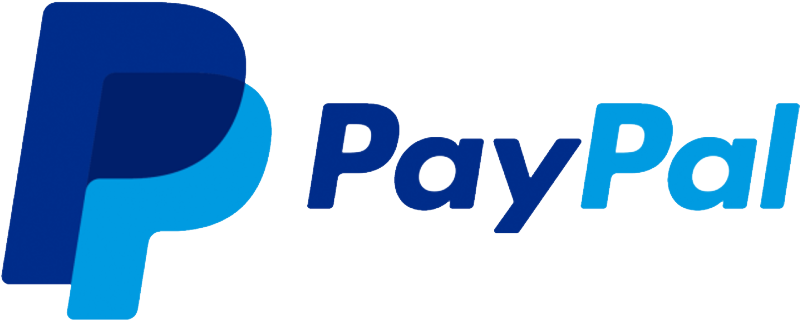
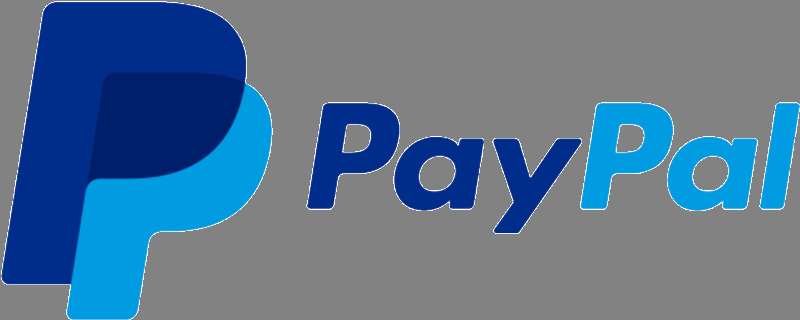
Donate dialog updated

diff --git a/Dialogs/Donate.Designer.cs b/Dialogs/Donate.Designer.cs
@@ -29,8 +29,8 @@
         private void InitializeComponent()
         {
             System.ComponentModel.ComponentResourceManager resources = new System.ComponentModel.ComponentResourceManager(typeof(Donate));
-            this.Button1 = new System.Windows.Forms.Button();
-            this.button2 = new System.Windows.Forms.Button();
+            this.donateButton = new System.Windows.Forms.Button();
+            this.cancelButton = new System.Windows.Forms.Button();
             this.pictureBox1 = new System.Windows.Forms.PictureBox();
             this.pictureBox2 = new System.Windows.Forms.PictureBox();
             this.richTextBox = new System.Windows.Forms.RichTextBox();
@@ -39,33 +39,36 @@
             ((System.ComponentModel.ISupportInitialize)(this.pictureBox2)).BeginInit();
             this.SuspendLayout();
             // 
-            // Button1
+            // donateButton
             // 
-            this.Button1.Location = new System.Drawing.Point(171, 231);
-            this.Button1.Name = "Button1";
-            this.Button1.Size = new System.Drawing.Size(75, 23);
-            this.Button1.TabIndex = 0;
-            this.Button1.Text = "Donate";
-            this.Button1.UseVisualStyleBackColor = true;
-            this.Button1.Click += new System.EventHandler(this.Button1_Click);
+            this.donateButton.Location = new System.Drawing.Point(228, 284);
+            this.donateButton.Margin = new System.Windows.Forms.Padding(4);
+            this.donateButton.Name = "donateButton";
+            this.donateButton.Size = new System.Drawing.Size(100, 28);
+            this.donateButton.TabIndex = 0;
+            this.donateButton.Text = "Donate";
+            this.donateButton.UseVisualStyleBackColor = true;
+            this.donateButton.Click += new System.EventHandler(this.Button1_Click);
             // 
-            // button2
+            // cancelButton
             // 
-            this.button2.Location = new System.Drawing.Point(284, 231);
-            this.button2.Name = "button2";
-            this.button2.Size = new System.Drawing.Size(75, 23);
-            this.button2.TabIndex = 2;
-            this.button2.Text = "Cancel";
-            this.button2.UseVisualStyleBackColor = true;
-            this.button2.Click += new System.EventHandler(this.Button2_Click);
+            this.cancelButton.Location = new System.Drawing.Point(379, 284);
+            this.cancelButton.Margin = new System.Windows.Forms.Padding(4);
+            this.cancelButton.Name = "cancelButton";
+            this.cancelButton.Size = new System.Drawing.Size(100, 28);
+            this.cancelButton.TabIndex = 2;
+            this.cancelButton.Text = "Cancel";
+            this.cancelButton.UseVisualStyleBackColor = true;
+            this.cancelButton.Click += new System.EventHandler(this.Button2_Click);
             // 
             // pictureBox1
             // 
             this.pictureBox1.BackColor = System.Drawing.Color.White;
             this.pictureBox1.Image = global::Bahtinov_Collimator.Properties.Resources.focusImage;
             this.pictureBox1.Location = new System.Drawing.Point(-1, 0);
+            this.pictureBox1.Margin = new System.Windows.Forms.Padding(4);
             this.pictureBox1.Name = "pictureBox1";
-            this.pictureBox1.Size = new System.Drawing.Size(128, 283);
+            this.pictureBox1.Size = new System.Drawing.Size(171, 348);
             this.pictureBox1.SizeMode = System.Windows.Forms.PictureBoxSizeMode.Zoom;
             this.pictureBox1.TabIndex = 3;
             this.pictureBox1.TabStop = false;
@@ -74,9 +77,10 @@
             // 
             this.pictureBox2.BackColor = System.Drawing.Color.White;
             this.pictureBox2.Image = global::Bahtinov_Collimator.Properties.Resources.paypal;
-            this.pictureBox2.Location = new System.Drawing.Point(12, 12);
+            this.pictureBox2.Location = new System.Drawing.Point(16, 19);
+            this.pictureBox2.Margin = new System.Windows.Forms.Padding(4);
             this.pictureBox2.Name = "pictureBox2";
-            this.pictureBox2.Size = new System.Drawing.Size(105, 55);
+            this.pictureBox2.Size = new System.Drawing.Size(135, 54);
             this.pictureBox2.SizeMode = System.Windows.Forms.PictureBoxSizeMode.Zoom;
             this.pictureBox2.TabIndex = 4;
             this.pictureBox2.TabStop = false;
@@ -87,10 +91,11 @@
             this.richTextBox.BorderStyle = System.Windows.Forms.BorderStyle.None;
             this.richTextBox.Cursor = System.Windows.Forms.Cursors.Arrow;
             this.richTextBox.Font = new System.Drawing.Font("Microsoft Sans Serif", 9F, System.Drawing.FontStyle.Regular, System.Drawing.GraphicsUnit.Point, ((byte)(0)));
-            this.richTextBox.Location = new System.Drawing.Point(136, 86);
+            this.richTextBox.Location = new System.Drawing.Point(192, 106);
+            this.richTextBox.Margin = new System.Windows.Forms.Padding(4);
             this.richTextBox.Name = "richTextBox";
             this.richTextBox.ReadOnly = true;
-            this.richTextBox.Size = new System.Drawing.Size(268, 110);
+            this.richTextBox.Size = new System.Drawing.Size(346, 135);
             this.richTextBox.TabIndex = 6;
             this.richTextBox.Text = "";
             // 
@@ -98,25 +103,27 @@
             // 
             this.label1.AutoSize = true;
             this.label1.Font = new System.Drawing.Font("Microsoft Sans Serif", 9F, System.Drawing.FontStyle.Bold, System.Drawing.GraphicsUnit.Point, ((byte)(0)));
-            this.label1.Location = new System.Drawing.Point(142, 27);
+            this.label1.Location = new System.Drawing.Point(189, 33);
+            this.label1.Margin = new System.Windows.Forms.Padding(4, 0, 4, 0);
             this.label1.Name = "label1";
-            this.label1.Size = new System.Drawing.Size(251, 15);
+            this.label1.Size = new System.Drawing.Size(298, 18);
             this.label1.TabIndex = 7;
             this.label1.Text = "This software is free and open source.";
             // 
             // Donate
             // 
-            this.AutoScaleDimensions = new System.Drawing.SizeF(6F, 13F);
+            this.AutoScaleDimensions = new System.Drawing.SizeF(8F, 16F);
             this.AutoScaleMode = System.Windows.Forms.AutoScaleMode.Font;
-            this.ClientSize = new System.Drawing.Size(413, 281);
+            this.ClientSize = new System.Drawing.Size(551, 346);
             this.Controls.Add(this.label1);
             this.Controls.Add(this.richTextBox);
             this.Controls.Add(this.pictureBox2);
             this.Controls.Add(this.pictureBox1);
-            this.Controls.Add(this.button2);
-            this.Controls.Add(this.Button1);
+            this.Controls.Add(this.cancelButton);
+            this.Controls.Add(this.donateButton);
             this.FormBorderStyle = System.Windows.Forms.FormBorderStyle.FixedDialog;
             this.Icon = ((System.Drawing.Icon)(resources.GetObject("$this.Icon")));
+            this.Margin = new System.Windows.Forms.Padding(4);
             this.Name = "Donate";
             this.Text = "Donate";
             ((System.ComponentModel.ISupportInitialize)(this.pictureBox1)).EndInit();
@@ -128,8 +135,8 @@
 
         #endregion
 
-        private System.Windows.Forms.Button Button1;
-        private System.Windows.Forms.Button button2;
+        private System.Windows.Forms.Button donateButton;
+        private System.Windows.Forms.Button cancelButton;
         private System.Windows.Forms.PictureBox pictureBox1;
         private System.Windows.Forms.PictureBox pictureBox2;
         private System.Windows.Forms.RichTextBox richTextBox;

diff --git a/Dialogs/Donate.cs b/Dialogs/Donate.cs
@@ -1,11 +1,21 @@
 using System;
 using System.Diagnostics;
+using System.Runtime.InteropServices;
 using System.Windows.Forms;
+using static System.Windows.Forms.VisualStyles.VisualStyleElement.Button;
+using static System.Windows.Forms.VisualStyles.VisualStyleElement.Window;
 
 namespace Bahtinov_Collimator
 {
     public partial class Donate : Form
     {
+
+        [DllImport("dwmapi.dll", PreserveSig = true)]
+        private static extern int DwmSetWindowAttribute(IntPtr hwnd, int attr, ref int attrValue, int attrSize);
+
+        // Constants
+        private const int DWMWA_USE_IMMERSIVE_DARK_MODE = 19;
+
         #region Constructor
 
         /// <summary>
@@ -15,17 +25,50 @@ namespace Bahtinov_Collimator
         {
             InitializeComponent();
             InitializeRichTextBox();
+            SetColorScheme();
         }
 
         #endregion
 
         #region Methods
 
+        private void SetColorScheme()
+        {
+            // main form
+            this.ForeColor = UITheme.DarkForeground;
+            this.BackColor = UITheme.DarkBackground;
+
+            // OK button
+            donateButton.BackColor = UITheme.ButtonDarkBackground;
+            donateButton.ForeColor = UITheme.ButtonDarkForeground;
+            donateButton.FlatStyle = FlatStyle.Popup;
+
+            // Cancel button
+            cancelButton.BackColor = UITheme.ButtonDarkBackground;
+            cancelButton.ForeColor = UITheme.ButtonDarkForeground;
+            cancelButton.FlatStyle = FlatStyle.Popup;
+
+            // Titlebar
+            var color = UITheme.DarkBackground;
+            int colorValue = color.R | (color.G << 8) | (color.B << 16);
+            DwmSetWindowAttribute(this.Handle, DWMWA_USE_IMMERSIVE_DARK_MODE, ref colorValue, sizeof(int));
+
+            label1.ForeColor = UITheme.DonateTextColor;
+
+            pictureBox1.BackColor = UITheme.DonatePictureBackground;
+
+            // Group Boxes
+ //           ChangeLabelColors(groupBox1, UITheme.MenuDarkForeground);
+ //           groupBox1.ForeColor = UITheme.MenuDarkForeground;
+        }
+
         /// <summary>
         /// Initializes the rich text box with donation information.
         /// </summary>
         private void InitializeRichTextBox()
         {
+            richTextBox.BackColor = UITheme.DarkBackground;
+            richTextBox.ForeColor = UITheme.DonateTextColor;
             richTextBox.Text = "If you've found this app useful and it has helped improve your images, please consider donating. \n\nYour contribution is appreciated.";
         }
 

diff --git a/Utilities/UITheme.cs b/Utilities/UITheme.cs
@@ -45,7 +45,11 @@ namespace Bahtinov_Collimator
         public static float SelectionBackgroundTransparency { get; } = 0.5f;
         public static Color SelectionCircleInfill { get; } = Color.FromArgb(237, 78, 78);
         public static Color SelectionCircleBoarder { get; } = Color.DarkBlue;
-        public static int SelectionBoarderWidth { get; } = 3;    
+        public static int SelectionBoarderWidth { get; } = 3; 
+        
+        // Donate Theme
+        public static Color DonateTextColor { get; } = Color.White;
+        public static Color DonatePictureBackground { get; } = Color.Gray;
 
         // Group Box Color Theme Dictionary
         private static readonly Dictionary<int, Color> GroupBoxTextColors;
